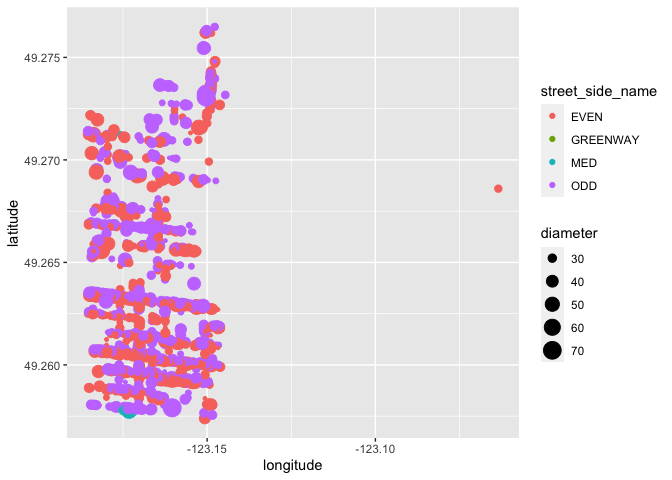
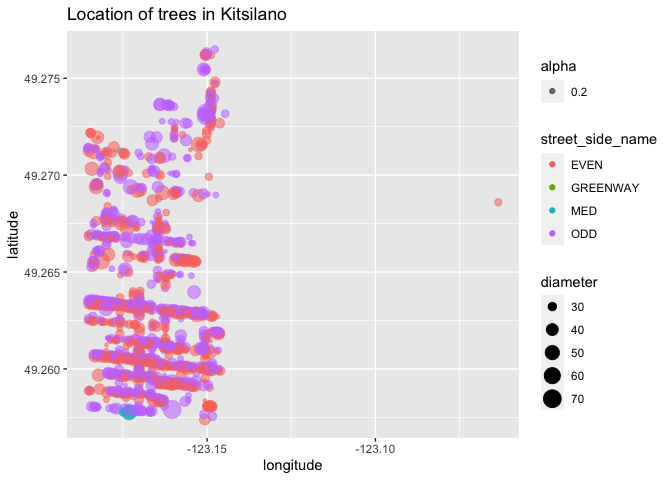
added research questions and titles to plots

diff --git a/README.md b/README.md
@@ -381,6 +381,7 @@ library(lubridate)
 
 ``` r
 vancouver_trees <- vancouver_trees %>% 
+  # use year() from lubridate to extract year from date
   mutate(year_planted = year(date_planted))
 ```
 
@@ -441,8 +442,9 @@ vancouver_trees %>% group_by(neighbourhood_name) %>% count()
 
 I’m most interested in the trees in my neighbourhood, Kitsilano, where
 there are 8115 trees. I only care about trees that are greater than 25
-and less than 100 in diameter. O want information about the location
-first and then the rest.
+and less than 100 in diameter. I want information about the location
+first and then the rest since I would like to know the geographic
+location of these trees.
 
 ``` r
 kits_trees <- vancouver_trees %>% 
@@ -456,7 +458,7 @@ planted and where on the street they are.
 ``` r
 kits_trees %>% 
   filter(diameter >= 25, diameter <= 100) %>% 
-  ggplot(aes(longitude, latitude)) + geom_point(aes(col = street_side_name, size = diameter))
+  ggplot(aes(longitude, latitude)) + geom_point(aes(col = street_side_name, size = diameter, alpha = 0.2)) + ggtitle("Location of trees in Kitsilano")
 ```
 
     ## Warning: Removed 129 rows containing missing values (geom_point).
@@ -469,11 +471,19 @@ that out.
 ``` r
 kits_trees %>% 
   filter(diameter >= 25, diameter <= 100, longitude < -123.1) %>% 
-  ggplot(aes(longitude, latitude)) + geom_point(aes(col = street_side_name, size = diameter, alpha = 0.2))
+  ggplot(aes(longitude, latitude)) + geom_point(aes(col = street_side_name, size = diameter, alpha = 0.2)) + ggtitle("Location of trees in Kitsilano")
 ```
 
 ![](README_files/figure-gfm/unnamed-chunk-15-1.png)<!-- -->
 
 # Research questions
 
--   
+-   How have tree planting patterns changed over years?
+
+-   What are the most popular species of trees in Vancouver, does that
+    change by neighbourhood?
+
+-   Which streets in Vancouver are most densely populated with trees?
+
+-   Where can you find the largest (tallest and widest) trees in
+    Vancouver?
